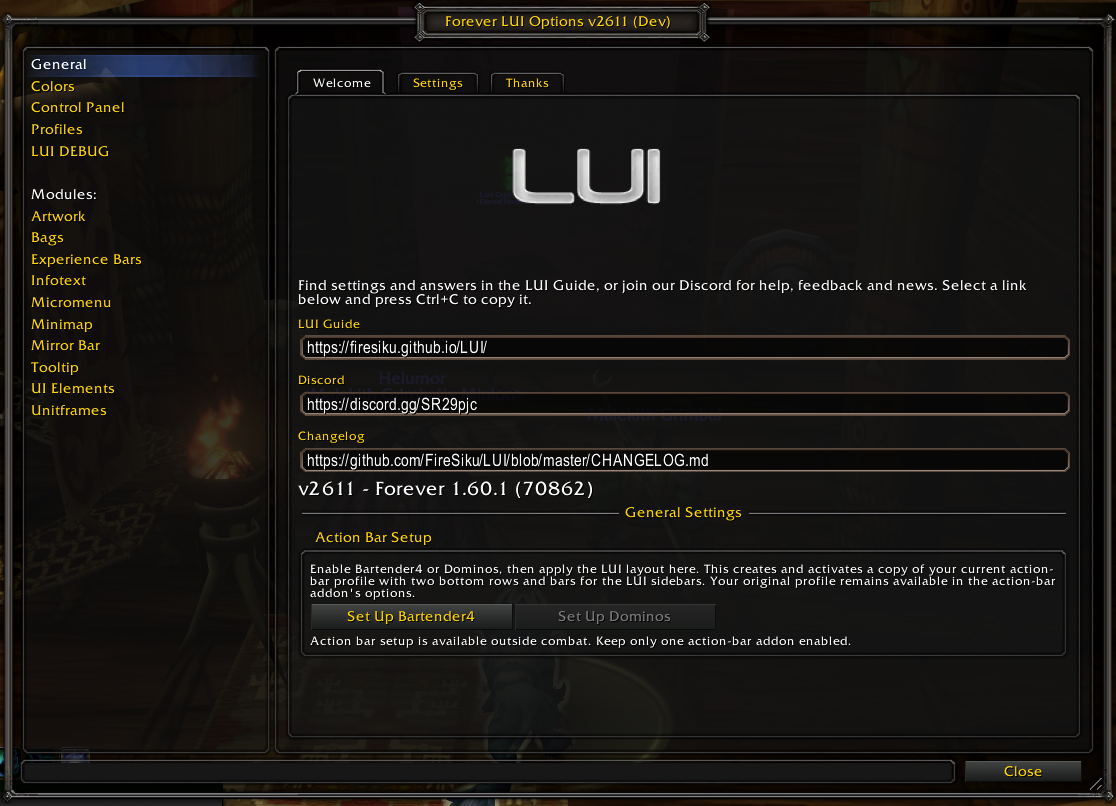
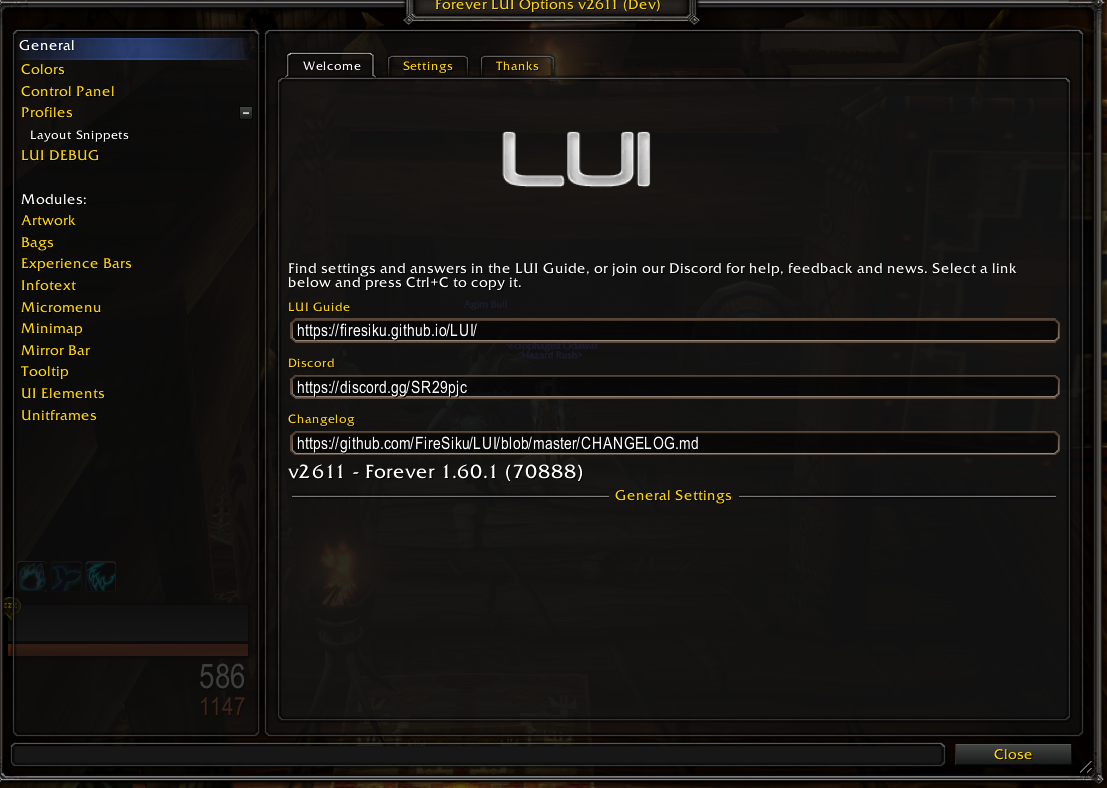
Docs: add current Welcome and Colors screenshots

diff --git a/docs/index.html b/docs/index.html
@@ -36,6 +36,9 @@
 <section id="welcome-setup"><h2><a href="#welcome-setup">General → Welcome</a></h2>
 <p>Type <code>/lui</code> or click the <strong>gear icon</strong> in the LUI Micromenu. Select a module on the left to open its settings.</p>
 <p><strong>General → Welcome</strong> keeps the LUI Guide, Discord and Changelog links in one place. Click a link field and press <kbd>Ctrl+C</kbd> to copy it. New setups also receive a one-time welcome message with help links.</p>
+<figure>
+<figcaption>General → Welcome: Guide, Discord and Changelog links</figcaption><a aria-label="Open screenshot: General → Welcome" href="assets/welcome.webp" rel="noopener" target="_blank"><img alt="LUI v2611 Welcome page with the Guide, Discord and Changelog link fields" decoding="async" height="788" loading="lazy" src="assets/welcome.webp" style="max-width:1107px" width="1107"/></a>
+</figure>
 <p>Optional action-bar and raid-frame layouts are under <a href="#addon-setup">Control Panel → Addon Setup</a>.</p></section><section id="options-window">
 <h2><a href="#options-window">General → Settings</a></h2><p><strong>General → Settings</strong> contains Blizzard window scaling, error-message and talent-message filters, module notices and keyword-based automatic invites.</p>
 <p>Under <strong>Damage Text</strong>, choose combat-text fonts. Outline affects scrolling text only. Changing the font for damage numbers above units requires logging out to character selection and back in.</p>
@@ -45,6 +48,10 @@
 </figure>
 </section><section id="general-colors"><h2><a href="#general-colors">Colors</a></h2>
 <p><strong>Colors</strong> contains shared LUI palettes. <strong>Unitframes → Colors</strong> contains the unitframe palettes. An element's color mode determines which palette or individual color it uses.</p>
+<p>Use <strong>Classes</strong> for class and resource colors, <strong>Factions</strong> for faction and reputation colors, and <strong>Miscellaneous</strong> for gradients and level-difference colors. Available class entries depend on your client.</p>
+<figure>
+<figcaption>Colors → Classes: shared class and resource colors</figcaption><a aria-label="Open screenshot: Colors → Classes" href="assets/colors-classes.webp" rel="noopener" target="_blank"><img alt="LUI Colors page with Classes selected, class and resource color swatches, and the Factions and Miscellaneous tabs" decoding="async" height="792" loading="lazy" src="assets/colors-classes.webp" style="max-width:1111px" width="1111"/></a>
+</figure>
 <div class="data-grid"><div><strong>Class color / By Class</strong><span>Uses a shared class color. Changing that palette entry can affect several elements linked to it.</span></div>
 <div><strong>Individual</strong><span>Uses the color chosen on that element's own page. Choose this when you want to recolor just that element.</span></div>
 <div><strong>Alpha / Opacity</strong><span>Controls transparency. A low value can make an otherwise enabled element difficult to see.</span></div></div>
